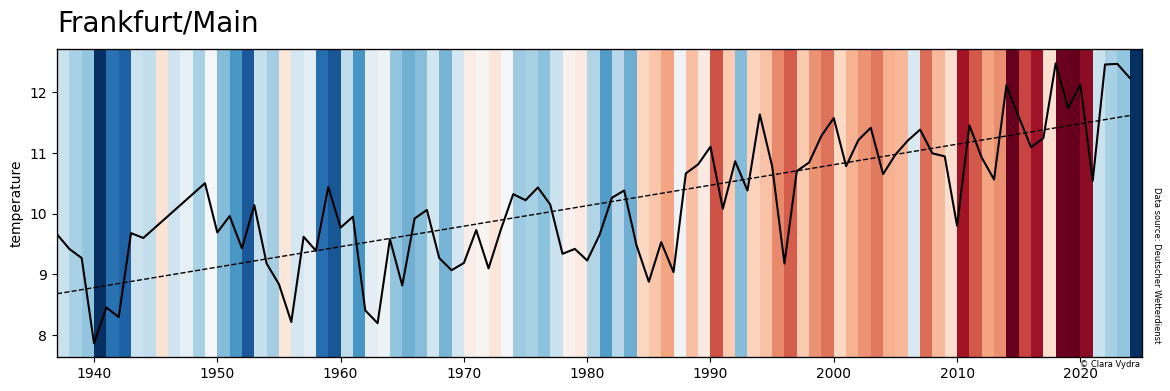
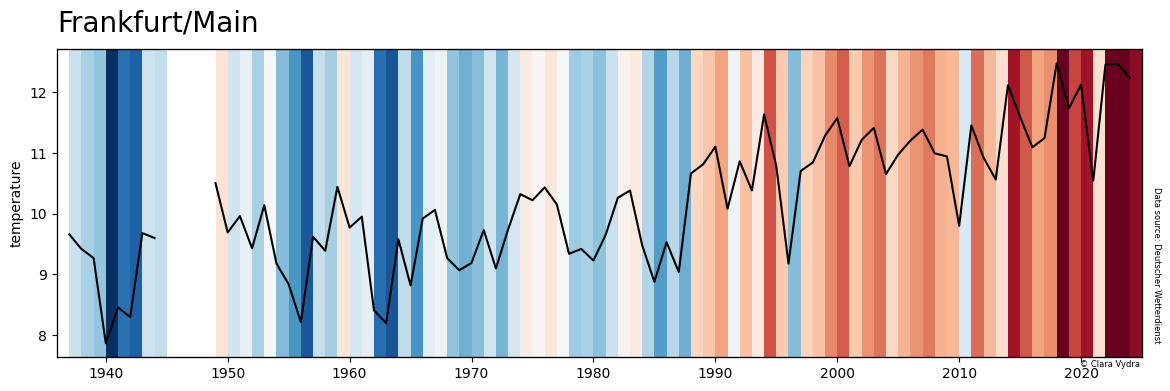
Added todos to README, removed dropna() from plotting function

diff --git a/plotting_climate_stripes_function.py b/plotting_climate_stripes_function.py
@@ -71,7 +71,7 @@ def get_climate_data(resolution, station_id=None, start_date=None, end_date=None
     return data_complete
 
 def plot_climate_stripes(station_id):
-    meantemp = get_climate_data('annual', station_id, variables=['temperature_air_mean_2m'], shape='wide').dropna().reset_index()
+    meantemp = get_climate_data('annual', station_id, variables=['temperature_air_mean_2m'], shape='wide')#.dropna().reset_index()
     meantemp['date'] = pd.to_datetime(meantemp['date']).dt.normalize()
 
     fig,ax = plt.subplots(figsize=(14, 4))

diff --git a/run_stripes.py b/run_stripes.py
@@ -2,6 +2,6 @@ import plotting_climate_stripes_function
 print(plotting_climate_stripes_function.__file__)
 
 
-station_ids = [5705, 1766, 1420, 1262]
+station_ids = [5705, 1766, 1420, 1262, 15526]
 for station_id in station_ids:
     plotting_climate_stripes_function.main(station_id)

diff --git a/README.md b/README.md
@@ -1,3 +1,29 @@
 # plotting_climate_stripes_de
 
-Plot inspiration and code from [DKRZ](https://docs.dkrz.de/doc/visualization/sw/python/source_code/python-matplotlib-warming-stripes-and-trend.html).
+![Warming Stripes Frankfurt](plots/1420_warming_stripes_plus_timeseries_and_trend.png)
+
+## German
+
+Einfach für jede der Messstationen des DWD ein Klimastreifendiagramm erstellen und die Temperaturerhöhung darstellen:
+
+run_stripes.py mit einer Liste der gewünschten Klimastationen laufen lassen (Übersicht beim [DWD](https://www.dwd.de/DE/leistungen/klimadatendeutschland/stationsuebersicht.html)). Plots werden im gleichnahmigen Ordner gespeichert.
+
+Plot Inspiration und Code vom [DKRZ](https://docs.dkrz.de/doc/visualization/sw/python/source_code/python-matplotlib-warming-stripes-and-trend.html).
+
+### to-do
+- Umgang mit fehlenden Werten
+- Design verbessern
+- climate bar plots
+
+## English
+
+Simply create a climate strip chart for each of the DWD measuring stations and display the temperature increase:
+
+Run run_stripes.py with a list of the desired climate stations (overview at [DWD](https://www.dwd.de/DE/leistungen/klimadatendeutschland/stationsuebersicht.html)). Plots are saved in the folder of the same name.
+
+Plot inspiration and code from the [DKRZ](https://docs.dkrz.de/doc/visualization/sw/python/source_code/python-matplotlib-warming-stripes-and-trend.html).
+
+### to-do
+- handling missing values
+- tweaking design
+- climate bar plots
